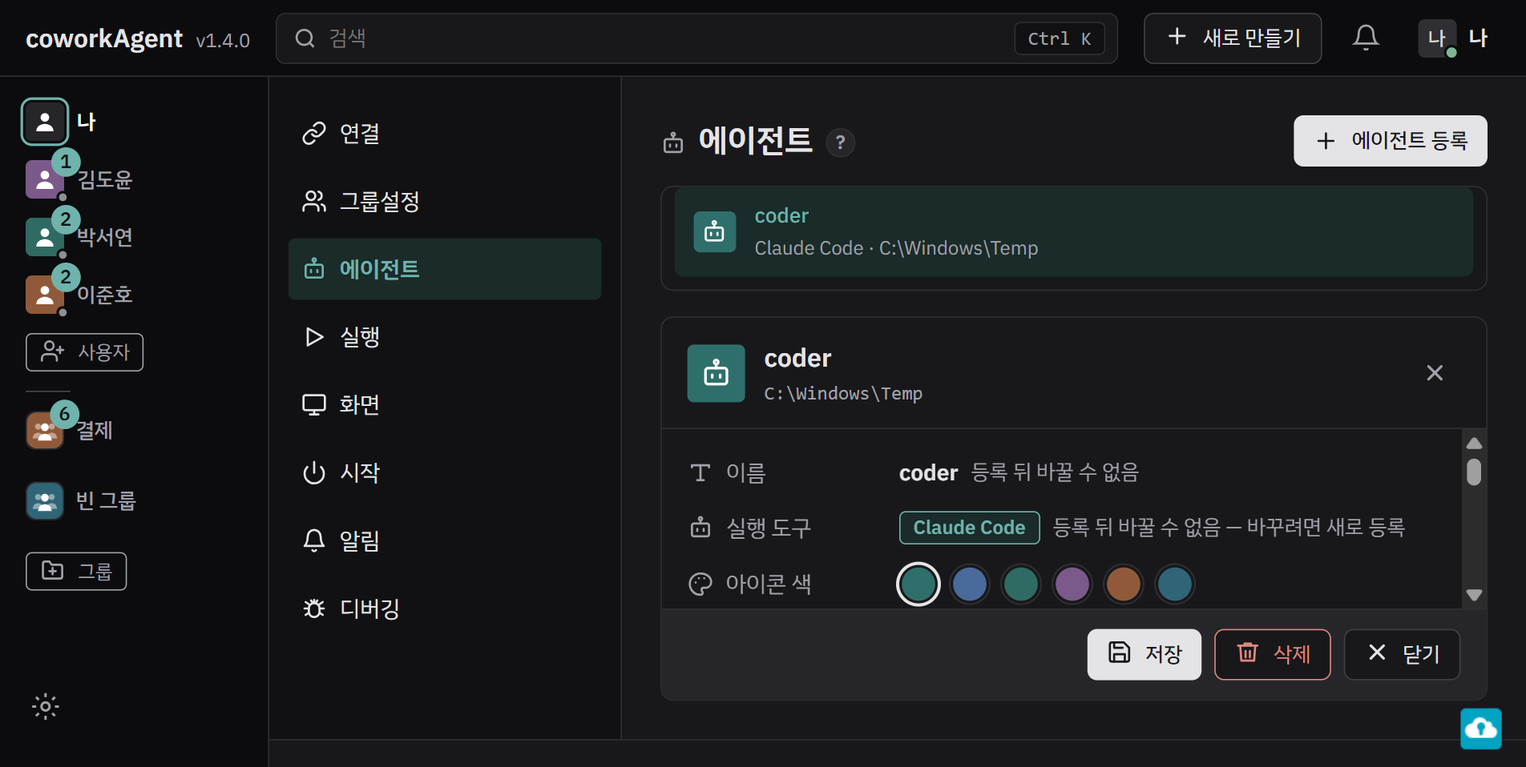
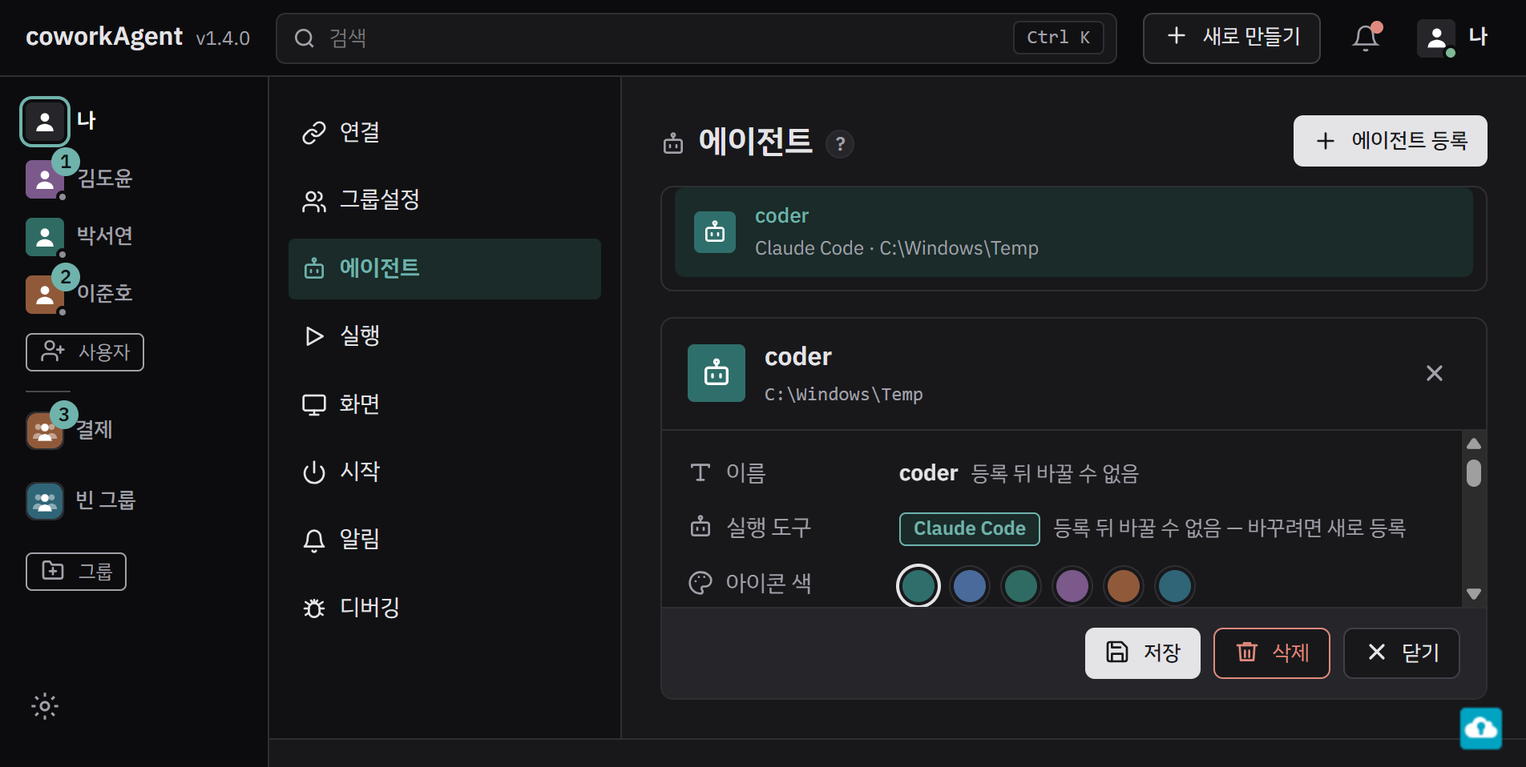
Task #1z-15 개정 ③: 사람 · 그룹 얼굴 = 어디서나 레일 얼굴(머리글자 네모 없음) · '나' 흑연 기본 — 1.4.0 그대로
사용자 지시 "레일 아이콘을 다른 대화방에서도 동일하게 유지" + 질문 답(머리글자 네모 전부 · '나' 같이 맞춤).
줄 타일 · 연결 · 그룹설정 · 검색 · 개요 · 말풍선 · 요청 의견 · 주고받은 메시지 · 프로필 = railFace(그림 있으면 그림),
공유 대화 원 상대 = 무채 사람, tileFace · initialOf 삭제, README 사진 셋 다시. check_gates 15/15.

Claude-Session: https://claude.ai/code/session_012th9WyU9R7WTojcmX88DV1

diff --git a/crates/app/web/app.css b/crates/app/web/app.css
@@ -36,7 +36,7 @@
   --rail: #18181B;
   --rail-2: #27272A;
   --rail-text: #A1A1AA;
-  --avatar-bg: #E4E4E7; /* 머리글자 네모 */
+  --avatar-bg: #E4E4E7; /* 무채 얼굴 네모 */
   --avatar-text: #3F3F46;
   /* 에이전트 아이콘 색 — 사용자가 고른다(이름이 저장된다), 두 테마 같음(흰 아이콘) */
   --peer-1: #496A9A;
@@ -731,7 +731,7 @@ details { margin: var(--sp-2) 0; }
 /* 에이전트 머리 · 하위 — 머리는 링크 없음, 하위는 들여쓴다. */
 .side-nav .nav-head { display: flex; align-items: center; height: 32px; padding: 0 var(--sp-3); color: var(--muted); }
 .side-nav .nav-sub a { padding-left: calc(var(--sp-3) + var(--sp-5)); }
-/* 프로필 단추 — 얼굴(그림 · 없으면 머리글자) + 이름 한 번, 이름은 약 12자에서 말줄임 · 전체는 title. 점 = 내 상태 */
+/* 프로필 단추 — 얼굴(레일 '나' 와 같음) + 이름 한 번, 이름은 약 12자에서 말줄임 · 전체는 title. 점 = 내 상태 */
 .avatar-btn { width: auto; height: 32px; display: inline-flex; align-items: center; gap: var(--sp-2); padding: 0 var(--sp-2) 0 var(--sp-1); border: 0; border-radius: var(--radius); background: transparent; color: var(--text); overflow: visible; }
 .avatar-btn:hover { background: var(--surface-2); }
 .avatar-btn .avatar-face { position: relative; width: 24px; height: 24px; flex: none; border-radius: var(--radius-sm); display: inline-flex; align-items: center; justify-content: center; background: var(--avatar-bg); color: var(--avatar-text); font-size: var(--fs-xs); font-weight: var(--fw-medium); }
@@ -820,7 +820,9 @@ details { margin: var(--sp-2) 0; }
 #rail { gap: var(--sp-6); padding-bottom: var(--sp-5); }
 #rail_pcs, .rail-groups { gap: var(--sp-6); }
 .tile-shape { display: flex; align-items: center; justify-content: center; width: 100%; height: 100%; border-radius: inherit; background: var(--avatar-bg); color: var(--avatar-text); font-weight: var(--fw-medium); line-height: 1; }
-.rail-btn.me .tile-shape { background: var(--rail-2); color: var(--on-dark); }
+.tile-shape.me-tile { background: var(--rail-2); color: var(--on-dark); }
+.tile-shape svg { width: 70%; height: 70%; }
+:is(.avatar, .pm-av) img { width: 100%; height: 100%; object-fit: cover; border-radius: inherit; }
 .rail-btn .tile-shape svg { width: 22px; height: 22px; }
 .rail-btn .tile-name { position: absolute; top: calc(100% + 4px); left: 50%; transform: translateX(-50%); width: 64px; font-size: var(--fs-xs); font-weight: var(--fw-medium); line-height: var(--lh-tight); color: var(--rail-text); text-align: center; white-space: nowrap; overflow: hidden; text-overflow: ellipsis; pointer-events: none; }
 .rail-btn[aria-pressed="true"] .tile-name { color: var(--on-dark); font-weight: var(--fw-bold); }
@@ -1035,7 +1037,7 @@ details { margin: var(--sp-2) 0; }
 .pv-state.st-error::before, .pv-state.st-undelivered::before { background: var(--danger); }
 .pv-more { min-height: calc(132px * var(--pv-scale)); border: 1px solid var(--border); border-radius: var(--pv-radius); background: transparent; color: var(--accent); font-size: var(--fs-md); font-weight: var(--fw-medium); }
 .pv-more:hover { border-color: var(--border-strong); background: var(--surface-2); }
-/* 주고받은 메시지 줄: 아바타(사람 = 머리글자 · 에이전트 = 로봇 네모) · 메타 · 본문 · 시각, 에이전트 줄 바탕 */
+/* 주고받은 메시지 줄: 아바타(사람 = 레일 얼굴 · 에이전트 = 로봇 네모) · 메타 · 본문 · 시각, 에이전트 줄 바탕 */
 .rows li.pm-agent { background: var(--agent-soft); }
 .rows a.pm-link { flex-direction: row; align-items: flex-start; gap: var(--sp-3); }
 .pm-av { flex: none; width: 28px; height: 28px; border-radius: var(--radius-sm); display: inline-flex; align-items: center; justify-content: center; background: var(--avatar-bg); color: var(--avatar-text); font-size: var(--fs-xs); font-weight: var(--fw-medium); }
@@ -1081,11 +1083,11 @@ details { margin: var(--sp-2) 0; }
 .swatch { width: 24px; height: 24px; padding: 0; border-radius: 50%; border: 2px solid var(--surface); box-shadow: 0 0 0 1px var(--border); }
 .swatch[aria-pressed="true"] { box-shadow: 0 0 0 2px var(--text); }
 .swatch.rail-2 { background: var(--rail-2); } /* '나' 타일 흑연(기본) */
-/* 타일 색(나 · 상대 · 그룹이 고른 색 — 에이전트 아이콘 색과 같은 여섯, `tileTint`) — 레일 · 머리글자 네모 · 말풍선 · 주고받은 메시지 · 프로필 얼굴, 흰 글자 */
-:is(.tile-shape, .avatar, .avatar-face, .pm-av).tinted { color: var(--on-dark); }
-:is(.tile-shape, .avatar, .avatar-face, .pm-av).tinted.agent-tile { background: var(--agent-tile); }
-:is(.tile-shape, .avatar, .avatar-face, .pm-av).tinted.peer-1 { background: var(--peer-1); }
-:is(.tile-shape, .avatar, .avatar-face, .pm-av).tinted.peer-2 { background: var(--peer-2); }
-:is(.tile-shape, .avatar, .avatar-face, .pm-av).tinted.peer-3 { background: var(--peer-3); }
-:is(.tile-shape, .avatar, .avatar-face, .pm-av).tinted.peer-4 { background: var(--peer-4); }
-:is(.tile-shape, .avatar, .avatar-face, .pm-av).tinted.peer-5 { background: var(--peer-5); }
+/* 타일 색(나 · 상대 · 그룹이 고른 색 — 에이전트 아이콘 색과 같은 여섯, `tileTint`) — 레일 · 줄 타일 · 말풍선 · 주고받은 메시지 · 프로필 얼굴(`railFace`), 흰 글자 */
+.tile-shape.tinted { color: var(--on-dark); }
+.tile-shape.tinted.agent-tile { background: var(--agent-tile); }
+.tile-shape.tinted.peer-1 { background: var(--peer-1); }
+.tile-shape.tinted.peer-2 { background: var(--peer-2); }
+.tile-shape.tinted.peer-3 { background: var(--peer-3); }
+.tile-shape.tinted.peer-4 { background: var(--peer-4); }
+.tile-shape.tinted.peer-5 { background: var(--peer-5); }

diff --git a/crates/app/web/js/peers.js b/crates/app/web/js/peers.js
@@ -2,11 +2,10 @@
 import { api } from "./core/api.js";
 import { $, act, button, el, ico, needsRender } from "./core/dom.js";
 import { latest, state } from "./core/state.js";
-import { iconButton, tileFace } from "./core/widgets.js";
+import { iconButton, railFace } from "./core/widgets.js";
 import { formatTime } from "./logic/format.js";
 import { PEER_PAGE, inboxRows, mergePage, pageMore, peerMsgsSig, peerSummaryRows } from "./logic/inbox.js";
 import { avatarKind, speakerIcon } from "./logic/message.js";
-import { initialOf, tileTint } from "./logic/peer.js";
 import { BOOKMARK_SVG } from "./conv.js";
 import { foldEl, pairedIds } from "./sidebar.js";
 
@@ -65,19 +64,19 @@ export function renderPeerMessages() {
     $("peer_list").replaceChildren(el("li", { class: "hint", text: "주고받은 메시지 없음" }));
     return;
   }
-  if (!needsRender($("peer_list"), JSON.stringify([peerMsgsSig(heads, state.peerPages), state.peerNames.size, state.peers.map((p) => [p.id, p.icon, p.color]), state.settings.me_color]), false)) return;
+  if (!needsRender($("peer_list"), JSON.stringify([peerMsgsSig(heads, state.peerPages), state.peerNames.size, state.peers.map((p) => [p.id, p.icon, p.color]), state.settings.me_icon, state.settings.me_color]), false)) return;
   $("peer_list").replaceChildren(
     ...heads.map((h) => {
       const p = state.peers.find((x) => x.id === h.peer);
       const head = [
-        el("span", { class: "row-tile", "aria-hidden": "true" }, tileFace(p?.icon, h.name, p?.color)),
+        el("span", { class: "row-tile", "aria-hidden": "true" }, railFace(p?.icon, false, p?.color)),
         el("strong", { text: h.name }),
         el("span", { class: "stat", text: h.count }),
         el("span", { class: "peer-last", text: h.last }),
         el("span", { class: "hint", text: formatTime(h.at) }),
       ];
       const page = state.peerPages.get(h.peer);
-      const body = page ? [el("ol", { class: "rows" }, ...peerRowEls(inboxRows(page, state.peerNames), p?.color)), moreRow(h, page.length)] : [el("p", { class: "hint more-row", text: "불러오는 중 …" })];
+      const body = page ? [el("ol", { class: "rows" }, ...peerRowEls(inboxRows(page, state.peerNames), p)), moreRow(h, page.length)] : [el("p", { class: "hint more-row", text: "불러오는 중 …" })];
       const d = foldEl(`peer:${h.peer}`, head, body, "peer-fold peer-msgs", null, true);
       d.addEventListener("toggle", async () => {
         if (!d.open || state.peerPages.has(h.peer)) return;
@@ -99,9 +98,9 @@ export function moreRow(h, shown) {
   return el("div", { class: "more-row" }, el("span", { text: m.text }), m.more ? button("더 보기", more, "small") : "");
 }
 
-/// 주고받은 메시지 행 — 아바타(상대 사람 · 나 = 머리글자 네모, 에이전트 = 로봇 — `avatarKind`) · 메타(이름 · "사람" / 에이전트 이름 + "에이전트" 칩 · 대화 제목 ·
-/// 요청 태그) · 본문 · 오른쪽 시각, 에이전트 줄은 옅은 에이전트 색 바탕. 사람 아바타 = 타일 색(나 = `me_color` · 상대 = `peerColor`). 오른쪽 끝 북마크 아이콘(말풍선과 같은 그림 · 동작).
-export function peerRowEls(rows, peerColor) {
+/// 주고받은 메시지 행 — 아바타(상대 사람 · 나 = 레일 얼굴, 에이전트 = 로봇 — `avatarKind`) · 메타(이름 · "사람" / 에이전트 이름 + "에이전트" 칩 · 대화 제목 ·
+/// 요청 태그) · 본문 · 오른쪽 시각, 에이전트 줄은 옅은 에이전트 색 바탕. 사람 아바타 = 레일 얼굴(나 = `me_icon` · `me_color` · 상대 = `peer` 그림 · 색). 오른쪽 끝 북마크 아이콘(말풍선과 같은 그림 · 동작).
+export function peerRowEls(rows, peer) {
   if (!rows.length) return [el("li", { class: "hint", text: "주고받은 메시지 없음" })];
   return rows.map((r) => {
     const kind = avatarKind(r.author, r.mine);
@@ -112,7 +111,7 @@ export function peerRowEls(rows, peerColor) {
       el(
         "a",
         { href: r.href, class: "pm-link" },
-        el("span", { class: `pm-av pm-av-${kind} ${kind === "agent" ? "" : tileTint(kind === "me" ? state.settings.me_color : peerColor)}`.trim(), role: "img", "aria-label": s.label, title: s.label }, kind === "agent" ? ico(s.icon) : initialOf(r.who)),
+        el("span", { class: `pm-av pm-av-${kind}`, role: "img", "aria-label": s.label, title: s.label }, kind === "agent" ? ico(s.icon) : kind === "me" ? railFace(state.settings.me_icon, false, state.settings.me_color, true) : railFace(peer?.icon, false, peer?.color)),
         el(
           "span",
           { class: "pm-text" },

diff --git a/crates/app/web/js/core/widgets.js b/crates/app/web/js/core/widgets.js
@@ -3,7 +3,7 @@ import { el, ico } from "./dom.js";
 import { agentColor } from "../logic/agent.js";
 import { KIND_NAMES, convKindIcon } from "../logic/conv.js";
 import { speakerIcon } from "../logic/message.js";
-import { initialOf, tileTint } from "../logic/peer.js";
+import { meTint, tileTint } from "../logic/peer.js";
 
 /// 대화 유형 표시 — 무채 선 아이콘(내 에이전트 응답 = 로봇 · 내가 문의 = 사람 · 공유 대화 = 눈, `convKindIcon`).
 /// 읽는 이름 = 유형 이름(같은 제목의 응답 · 문의 줄을 스크린리더도 가른다, 링크 이름에 들어간다).
@@ -17,23 +17,17 @@ export function agentTile(color, cls = "") {
   return el("span", { class: `pa agent-pa ${agentColor(color)} ${cls}`.trim(), "aria-hidden": "true" }, ico("bot"));
 }
 
-/// 줄 타일 얼굴 — 그림이 있으면 그림, 없으면 이름 머리글자 네모(나 · 상대 · 그룹 같은 모양, `color` = 고른 타일 색 — `tileTint`). 레일은 `railFace`.
-export function tileFace(icon, name, color) {
-  if (icon) return el("img", { src: icon, alt: "", draggable: "false" }); // 그림 기본 끌기가 레일 포인터 끌기를 가로채지 않게
-  return el("span", { class: `tile-shape ${tileTint(color)}`.trim(), "aria-hidden": "true", text: initialOf(name) });
-}
-
 export const PERSON_SVG =
   '<svg viewBox="0 0 24 24" width="22" height="22" aria-hidden="true"><circle cx="12" cy="8" r="4" fill="currentColor"></circle><path d="M4 21c0-4.4 3.6-7 8-7s8 2.6 8 7z" fill="currentColor"></path></svg>';
 /// 그룹 = 앞 사람 가운데 + 뒤 좌우 옅은 사람 둘.
 export const GROUP_SVG =
   '<svg viewBox="0 0 24 24" width="24" height="24" aria-hidden="true"><circle cx="5.6" cy="8.4" r="2.8" fill="currentColor" opacity=".45"></circle><path d="M.6 19.5c0-3.3 2.2-5.4 5-5.4s5 2.1 5 5.4z" fill="currentColor" opacity=".45"></path><circle cx="18.4" cy="8.4" r="2.8" fill="currentColor" opacity=".45"></circle><path d="M13.4 19.5c0-3.3 2.2-5.4 5-5.4s5 2.1 5 5.4z" fill="currentColor" opacity=".45"></path><circle cx="12" cy="9" r="3.6" fill="currentColor"></circle><path d="M5.6 21.5c0-4 2.8-6.4 6.4-6.4s6.4 2.4 6.4 6.4z" fill="currentColor"></path></svg>';
 
-/// 레일 타일 얼굴 — 그림이 있으면 그림, 없으면 사람(나 · 상대) · 세 사람(그룹) 모양 + 고른 타일 색(`tileTint` — 없으면 무채 · '나' 흑연).
-/// 누구인지는 아래 이름(`tileName`). 그림은 고정 문자열만.
-export function railFace(icon, group = false, color) {
+/// 사람 · 그룹 얼굴 — 레일 · 줄 타일 · 말풍선 · 주고받은 메시지 · 프로필이 모두 이 모양. 그림이 있으면 그림, 없으면 사람(나 · 상대) · 세 사람(그룹) 모양 +
+/// 고른 타일 색(`tileTint` — 없으면 무채, `me` 면 흑연 — `meTint`). 누구인지는 곁의 이름. 그림은 고정 문자열만.
+export function railFace(icon, group = false, color, me = false) {
   if (icon) return el("img", { src: icon, alt: "", draggable: "false" }); // 그림 기본 끌기가 레일 포인터 끌기를 가로채지 않게
-  const s = el("span", { class: `tile-shape ${tileTint(color)}`.trim(), "aria-hidden": "true" });
+  const s = el("span", { class: `tile-shape ${me ? meTint(color) : tileTint(color)}`.trim(), "aria-hidden": "true" });
   s.innerHTML = group ? GROUP_SVG : PERSON_SVG;
   return s;
 }
@@ -43,9 +37,9 @@ export function tileName(name) {
   return el("span", { class: "tile-name", "aria-hidden": "true", text: name });
 }
 
-/// 줄 타일 — 이름 머리글자 네모(그림이 있으면 그림, `color` = 고른 타일 색). 내 에이전트는 `agentTile`.
-export function rowTile(cls, icon, name, color) {
-  return el("span", { class: `pa ${cls}`.trim(), "aria-hidden": "true" }, tileFace(icon, name, color));
+/// 줄 타일 — 레일과 같은 얼굴(`railFace` — `group` 이면 세 사람). 내 에이전트는 `agentTile`.
+export function rowTile(cls, icon, color, group = false) {
+  return el("span", { class: `pa ${cls}`.trim(), "aria-hidden": "true" }, railFace(icon, group, color));
 }
 
 /// 발화자 종류 아이콘(사람 ↔ 에이전트) — 모양 · 이름은 `logic/message.js` `speakerIcon`.

diff --git a/crates/app/web/js/conv.js b/crates/app/web/js/conv.js
@@ -3,14 +3,14 @@ import { api } from "./core/api.js";
 import { $, act, button, el, ico, unchanged } from "./core/dom.js";
 import { closeFloat, focusAfterFloat, openFloat } from "./core/float.js";
 import { latest, state } from "./core/state.js";
-import { iconButton } from "./core/widgets.js";
+import { iconButton, railFace } from "./core/widgets.js";
 import { authorLabel, bubbleSide } from "./logic/author.js";
 import { contextBusy, contextLabel, contextNote, contextSize, ctxMenu } from "./logic/context.js";
 import { KIND_NAMES, MAX_OBSERVERS, convClosed, convKindIcon, convLabel, shareCandidates, shareHead } from "./logic/conv.js";
 import { dayBreaks, displayName, formatDuration, formatTime, josa, shortName, stateText } from "./logic/format.js";
 import { htmlSrcdoc, isHtmlDoc, markdownBlocks } from "./logic/markdown.js";
 import { editedTag, enterSends, lastRun, messageActions, messagesSigOf, noteCount, outboxText, progressText, refusedText, relayText } from "./logic/message.js";
-import { initialOf, presence, tileTint } from "./logic/peer.js";
+import { presence } from "./logic/peer.js";
 import { askTag, reqFeedback } from "./logic/request.js";
 import { closeMention } from "./composer.js";
 import { convEndForm } from "./conv-menu.js";
@@ -219,7 +219,7 @@ export function messageEl(conv, m) {
   }
   meta.push(editedTag(m));
   const acts = messageActions(m, !!convClosed(conv));
-  // 말풍선 — 이 PC 쪽 글은 오른쪽(이름은 "나" 가 아닐 때만), 상대 쪽은 왼쪽에 머리글자 아바타 · 이름.
+  // 말풍선 — 이 PC 쪽 글은 오른쪽(이름은 "나" 가 아닐 때만), 상대 쪽은 왼쪽에 상대 얼굴(`peerFace`) · 이름.
   // 에이전트 글은 어느 쪽이든 로봇 아바타 + "에이전트" 글자(말풍선 모양은 `app.css` `.msg.agent`).
   const agent = m.author === "agent";
   const article = el(
@@ -228,7 +228,7 @@ export function messageEl(conv, m) {
     agent
       ? el("div", { class: "avatar agent-av", "aria-hidden": "true" }, ico("bot"))
       : side === "theirs"
-        ? el("div", { class: `avatar ${peerTint(conv)}`.trim(), "aria-hidden": "true", text: initialOf(who.slice(who.lastIndexOf("/") + 1)) })
+        ? el("div", { class: "avatar", "aria-hidden": "true" }, peerFace(conv, conv.dir === "shared" && m.owner !== true))
         : "",
     el(
       "div",
@@ -356,7 +356,7 @@ export function feedbackEl(conv, m) {
   return el(
     "article",
     { class: `msg feedback side-${f.side}`, "data-feedback": String(m.id) },
-    f.side === "theirs" ? el("div", { class: `avatar ${peerTint(conv)}`.trim(), "aria-hidden": "true", text: initialOf(who) }) : "",
+    f.side === "theirs" ? el("div", { class: "avatar", "aria-hidden": "true" }, peerFace(conv)) : "",
     el(
       "div",
       { class: "msg-body" },
@@ -442,13 +442,15 @@ export function resendState(id, state, note) {
   );
 }
 
-/// 상대 쪽 말풍선 아바타 색 — 그 대화 상대 타일 색(`tileTint`).
-export function peerTint(conv) {
-  return tileTint(state.peers.find((p) => p.id === conv.peer_id)?.color);
+/// 상대 쪽 말풍선 아바타 — 그 대화 상대의 레일 얼굴(그림 · 타일 색). `other` = 공유 대화의 원 상대 글 — 짝지은 상대가 아니라 무채 사람 모양.
+export function peerFace(conv, other = false) {
+  const p = other ? null : state.peers.find((x) => x.id === conv.peer_id);
+  return railFace(p?.icon, false, p?.color);
 }
 
 export function messagesSig(conv, ms) {
-  return `${messagesSigOf(state.peerNames.get(conv.peer_id), ms)}|${peerTint(conv)}`;
+  const p = state.peers.find((x) => x.id === conv.peer_id);
+  return `${messagesSigOf(state.peerNames.get(conv.peer_id), ms)}|${JSON.stringify([p?.icon, p?.color])}`;
 }
 
 /// 그 글로 — 가운데로 스크롤해 잠깐 강조하고 실행 상세의 '진행' 을 그 요청으로(`#c/{대화}/m/{글}`).

diff --git a/crates/app/web/js/shell.js b/crates/app/web/js/shell.js
@@ -2,8 +2,9 @@
 import { api, appOffline } from "./core/api.js";
 import { $, act, el, ico } from "./core/dom.js";
 import { state } from "./core/state.js";
+import { railFace } from "./core/widgets.js";
 import { keepsConversation } from "./logic/conv.js";
-import { initialOf, presenceOf, tileTint } from "./logic/peer.js";
+import { presenceOf } from "./logic/peer.js";
 import { RAIL_W, groupLeaves, inGroup, peerLeaves } from "./logic/rail.js";
 import { portText } from "./logic/settings.js";
 import { newMenu, profileMenu, route } from "./logic/shell.js";
@@ -66,16 +67,12 @@ export function go(hash) {
   else location.hash = hash;
 }
 
-/// 상단 바 프로필 단추 — 24px 네모 얼굴(그림, 없으면 머리글자) + 표시 이름 한 번. 얼굴 점 = 내 상태(`presenceOf` — 받기 가능 초록 · 집중 주황 ·
+/// 상단 바 프로필 단추 — 24px 네모 얼굴(레일 '나' 와 같은 얼굴 — `railFace`) + 표시 이름 한 번. 얼굴 점 = 내 상태(`presenceOf` — 받기 가능 초록 · 집중 주황 ·
 /// 앱과 연결 끊김 붉음). 이름은 CSS 로 약 12자에서 말줄임, 전체는 `title`.
 export function renderAvatar() {
   const name = state.settings.me_alias || "나";
-  const icon = state.settings.me_icon;
   const st = presenceOf(state.settings.focus, appOffline());
-  const face = el("span", { class: `avatar-face st-${st.key} ${tileTint(state.settings.me_color)}`.trim(), "aria-hidden": "true" });
-  if (icon) face.append(el("img", { src: icon, alt: "" }));
-  else face.append(initialOf(name));
-  face.append(el("span", { class: "avatar-dot" }));
+  const face = el("span", { class: `avatar-face st-${st.key}`, "aria-hidden": "true" }, railFace(state.settings.me_icon, false, state.settings.me_color, true), el("span", { class: "avatar-dot" }));
   $("avatar_btn").title = `${name} · ${st.text}`;
   $("avatar_btn").setAttribute("aria-label", `프로필 · ${st.text}`);
   $("avatar_btn").replaceChildren(face, el("span", { class: "avatar-name", text: name }));

diff --git a/crates/app/web/js/settings/conn.js b/crates/app/web/js/settings/conn.js
@@ -50,7 +50,7 @@ export function renderConnPage(force) {
   const convs = sortByPos(state.convs);
   const users = groupSettingsList([], state.peers, convs, q, state.peerNames).users.map((u) => state.peers.find((p) => p.id === u.id));
   $("conn_list").replaceChildren(
-    ...users.map((p) => mdRow("conn", p.id, rowTile("small", p.icon, displayName(p), p.color), displayName(p), p.host, gsDot(p))),
+    ...users.map((p) => mdRow("conn", p.id, rowTile("small", p.icon, p.color), displayName(p), p.host, gsDot(p))),
     ...(users.length ? [] : [el("li", { class: "hint md-none", text: q ? "맞는 사용자 없음" : "연결 없음 — 초대 생성 · 초대 수락" })]),
   );
   const mode = pick.conn;
@@ -77,7 +77,7 @@ export function convLine(c, end = "") {
   return el(
     "li",
     { class: "md-conv" },
-    rowTile("small", p?.icon, p && displayName(p), p?.color),
+    rowTile("small", p?.icon, p?.color),
     el("span", { class: "md-row-text" }, el("strong", { text: label.title }), el("span", { class: "hint", text: label.sub })),
     closed ? el("span", { class: "chip", text: closed }) : "",
     end,
@@ -147,7 +147,7 @@ export function userDetail(p, convs) {
   );
   const mine = convs.filter((c) => c.peer_id === p.id);
   return [
-    mdHead("conn", rowTile("", p.icon, displayName(p), p.color), displayName(p), el("span", { class: "hint", "data-peer-sub": String(p.id), text: peerSub(p) })),
+    mdHead("conn", rowTile("", p.icon, p.color), displayName(p), el("span", { class: "hint", "data-peer-sub": String(p.id), text: peerSub(p) })),
     el(
       "div",
       { class: "md-body" },

diff --git a/crates/app/web/js/logic/peer.js b/crates/app/web/js/logic/peer.js
@@ -4,9 +4,14 @@ import { shortName } from "./format.js";
 import { sortByPos } from "./order.js";
 
 /// 타일 색 class — 여섯 색(`AGENT_COLORS` — 에이전트 아이콘 색과 같음)이면 `tinted {색}`, 아니면 빈 글자(흑연 · 무채).
-/// 레일 타일 · 머리글자 네모 · 말풍선 · 프로필 얼굴이 같은 규칙(`app.css` `.tinted`).
+/// 레일 · 줄 타일 · 말풍선 · 주고받은 메시지 · 프로필 얼굴이 같은 규칙(`app.css` `.tinted`).
 export function tileTint(color) {
   return AGENT_COLORS.includes(color) ? `tinted ${color}` : "";
+}
+
+/// '나' 얼굴 색 — 고른 색, 없으면 흑연(`me-tile`).
+export function meTint(color) {
+  return tileTint(color) || "me-tile";
 }
 
 /// 피어 승인 상태 → 문구.
@@ -81,14 +86,6 @@ export function peerSummary(convs, paired, peerNames, waiting = new Map()) {
       rows,
     };
   });
-}
-
-const GRAPHEMES = new Intl.Segmenter();
-
-/// 머리글자 — 앞뒤 공백을 뺀 첫 글자 묶음(서로게이트 쌍 · 결합 문자 · 풀어 쓴 한글도 한 글자), 로마자는 대문자. 이름이 없으면 빈 글자.
-export function initialOf(name) {
-  const [first] = GRAPHEMES.segment(String(name ?? "").trim());
-  return first ? first.segment.toUpperCase() : "";
 }
 
 /// 레일 배지 — 상대별 안 읽음 합(0 인 상대는 없다).

diff --git a/crates/app/web/js/rail.js b/crates/app/web/js/rail.js
@@ -70,11 +70,11 @@ export function renderRail() {
   me.setAttribute("aria-pressed", String(state.railPeer == null && state.railGroup == null));
   me.setAttribute("aria-label", meName);
   me.title = meName;
-  me.replaceChildren(railFace(state.settings.me_icon, false, state.settings.me_color), tileName(meName));
+  me.replaceChildren(railFace(state.settings.me_icon, false, state.settings.me_color, true), tileName(meName));
   keepFocus($("rail"), () => drawRailTiles(paired, unread));
 }
 
-/// 상대 · 그룹 타일(머리글자 네모 · 그림 + 아래 이름).
+/// 상대 · 그룹 타일(사람 · 세 사람 모양 · 그림 + 아래 이름).
 export function drawRailTiles(paired, unread) {
   $("rail_pcs").replaceChildren(
     ...paired.map((p) => {
@@ -102,7 +102,7 @@ export function drawRailTiles(paired, unread) {
       );
     }),
   );
-  // 그룹 타일 — 상대 타일 아래 구분선 뒤, 이름 머리글자 또는 그림, 배지 = 그룹 대화의 안 읽음 합.
+  // 그룹 타일 — 상대 타일 아래 구분선 뒤, 세 사람 모양 또는 그림, 배지 = 그룹 대화의 안 읽음 합.
   $("rail_sep").hidden = false;
   $("rail_groups").replaceChildren(
     ...state.groups.map((g) => {

diff --git a/crates/app/web/js/settings/groups.js b/crates/app/web/js/settings/groups.js
@@ -24,7 +24,7 @@ export function renderGroupPage(force) {
   const convs = sortByPos(state.convs);
   const list = groupSettingsList(state.groups, state.peers, convs, q, state.peerNames);
   $("group_list").replaceChildren(
-    ...list.groups.map((g) => mdRow("groups", g.id, rowTile("small", g.icon, g.name, g.color), g.name, `대화 ${g.count}`)),
+    ...list.groups.map((g) => mdRow("groups", g.id, rowTile("small", g.icon, g.color, true), g.name, `대화 ${g.count}`)),
     ...(list.groups.length ? [] : [el("li", { class: "hint md-none", text: q ? "맞는 그룹 없음" : "그룹 없음 — 그룹 추가" })]),
   );
   const g = state.groups.find((x) => x.id === pick.groups);
@@ -40,7 +40,7 @@ export function groupDetail(g, convs) {
   const say = (t) => ($("group_msg").textContent = t);
   const title = (c) => convLabel(c, state.peerNames).title;
   return [
-    mdHead("groups", rowTile("", g.icon, g.name, g.color), g.name, el("span", { class: "hint", text: `대화 ${inside.length}` })),
+    mdHead("groups", rowTile("", g.icon, g.color, true), g.name, el("span", { class: "hint", text: `대화 ${inside.length}` })),
     el(
       "div",
       { class: "md-body md-cols" },

diff --git a/crates/app/web/js/home.js b/crates/app/web/js/home.js
@@ -50,9 +50,9 @@ export function renderHome() {
   $("home_summary").replaceChildren(
     ...groups.map((g) => {
       const p = peerOf(g.peer);
-      // 머리 = 그 상대 타일(머리글자 · 그림) · 줄 = 에이전트 로봇 아이콘 — 사람 · 에이전트를 가른다.
+      // 머리 = 그 상대 타일(레일 얼굴) · 줄 = 에이전트 로봇 아이콘 — 사람 · 에이전트를 가른다.
       const head = [
-        rowTile("small", p?.icon, g.name, p?.color),
+        rowTile("small", p?.icon, p?.color),
         el("strong", { text: g.name }),
         p ? "" : el("span", { class: "hint", text: "페어링 해제" }),
         g.unread ? el("span", { class: "stat", text: `안 읽음 ${g.unread}` }) : "",

diff --git a/crates/app/web/js/logic/message.js b/crates/app/web/js/logic/message.js
@@ -198,7 +198,7 @@ export function speakerIcon(author) {
   return author === "agent" ? { kind: "agent", icon: "bot", label: "에이전트" } : { kind: "human", icon: "user", label: "사람" };
 }
 
-/// 주고받은 메시지 줄 아바타 — 에이전트(로봇) · 나(내 사람 글) · 상대(상대 사람 글) — 사람은 머리글자, 메타의 "사람" 은 `speakerIcon` 과 같다.
+/// 주고받은 메시지 줄 아바타 — 에이전트(로봇) · 나(내 사람 글) · 상대(상대 사람 글) — 사람은 레일 얼굴, 메타의 "사람" 은 `speakerIcon` 과 같다.
 export function avatarKind(author, mine) {
   return author === "agent" ? "agent" : mine ? "me" : "peer";
 }

diff --git a/crates/app/web/js/tiles.js b/crates/app/web/js/tiles.js
@@ -69,7 +69,7 @@ export function renderTilePreview() {
   const color = tileEdit.color !== undefined ? tileEdit.color : now.color;
   const box = $("tile_preview");
   box.className = tileEdit.kind === "me" ? "rail-btn tile-preview me" : "rail-btn tile-preview";
-  box.replaceChildren(railFace(icon, tileEdit.kind === "group", color));
+  box.replaceChildren(railFace(icon, tileEdit.kind === "group", color, tileEdit.kind === "me"));
 }
 
 /// 아이콘 색 단추 — 에이전트 상세와 같은 여섯 색(`AGENT_COLORS`), '나' 는 맨 앞 흑연(기본 — `""`) 하나 더. 고르면 미리보기만, 저장 때 보낸다.
